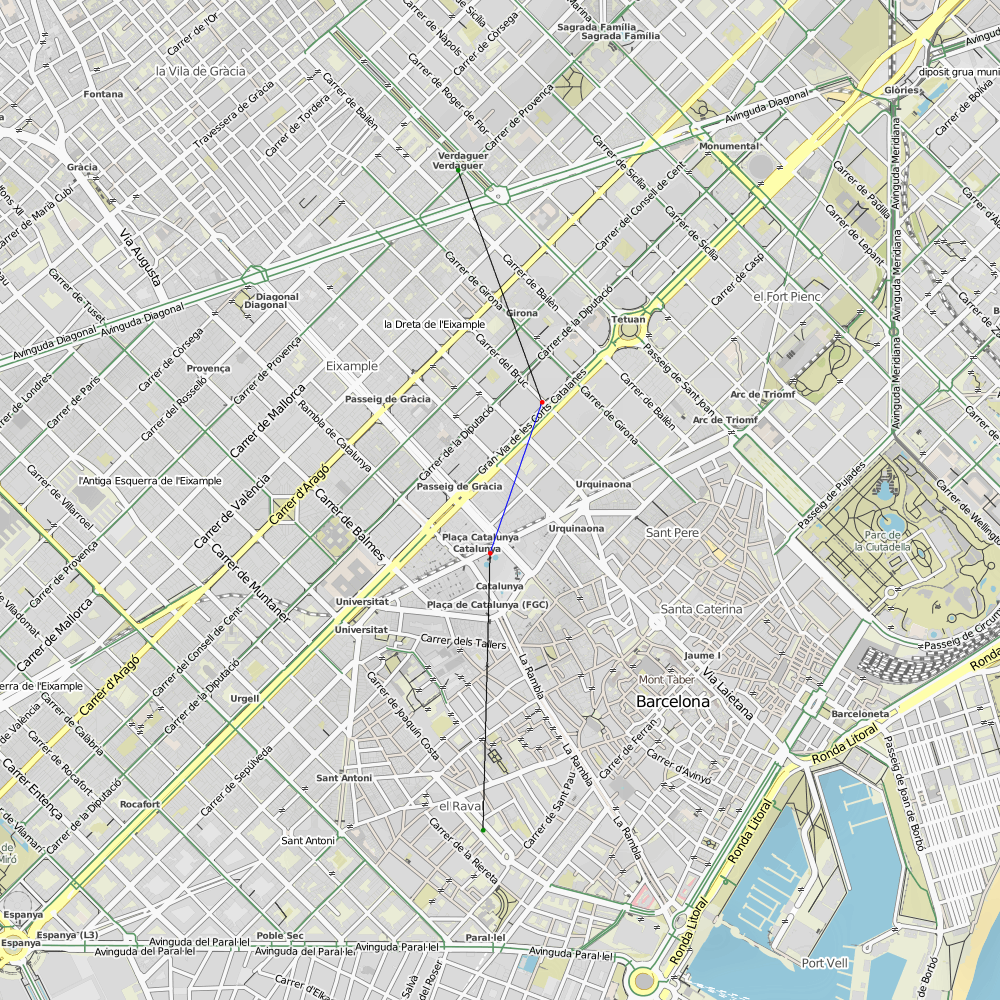
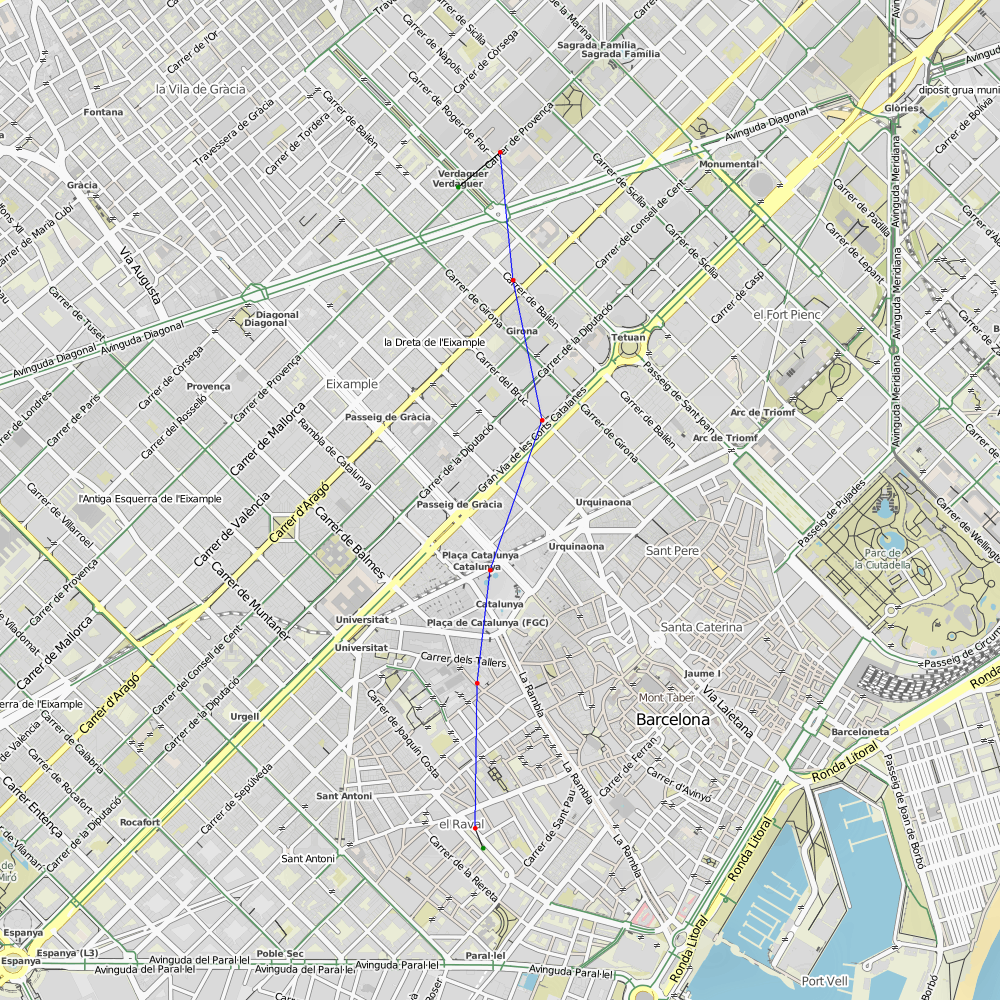
He fet el weight de distribute en metres (es perden els decimals, nose si saps com ho podríem sense fer-ho cutre)

diff --git a/data.py b/data.py
@@ -5,6 +5,9 @@ from geopy.geocoders import Nominatim
 import networkx as nx
 from staticmap import StaticMap, CircleMarker, Line
 
+
+import itertools as it
+
 '''
 Downloads the data from the internet and places the stations in a NetworkX Graph.
 Returns the graph, with the index and position in the node's own data and the
@@ -90,7 +93,6 @@ def grid (G, d, X):
     xmin, ymin, xmax, ymax = X
     width = haversine ((xmin, ymin), (xmax, ymin), unit='m')
     height = haversine ((xmin, ymin), (xmin, ymax), unit='m')
-    print ('width and height of bbox in meters: ', width, height)
 
     n_columns = int(width // d + 1)
     n_rows = int(height // d + 1)
@@ -155,7 +157,7 @@ and own a weight value that represents the time needed to go through.
 '''
 def get_edges(G, d):
     bbox_coords = bbox (G)
-    bike_v = 1000 # meters/hour
+    bike_v = 10000 # meters/hour (10 km/h)
     nodes_per_square, n_columns = grid (G, d, bbox_coords)
     for node in list(G.nodes(data=True)):
         neighbours (G, d, node, nodes_per_square, bbox_coords, n_columns, bike_v)
@@ -247,7 +249,7 @@ Returns the shortest path in time between two given addresses
 taking into account the corresponding velocities when walking or by bike.
 '''
 def route(G, d, info):
-    walk_v = 4000 # meters/hour
+    walk_v = 4000 # meters/hour (4 km/h)
     neighbours_od (G, d, ('o', G.nodes['o']), info[0], info[1], info[2], walk_v)
     neighbours_od (G, d, ('d', G.nodes['d']), info[0], info[1], info[2], walk_v)
 
@@ -275,7 +277,6 @@ def plot_route(addresses, G, d, info):
         H = nx.path_graph(path)
 
         for x in list(H.nodes()):
-            print (G.nodes[x]['pos'])
             H.nodes[x]['pos'] = G.nodes[x]['pos']
 
         # We remove them for further calculations
@@ -287,7 +288,10 @@ def plot_route(addresses, G, d, info):
 
 #____________________________________________________
 '''
-The function distribute indicates the cost of
+The function distribute indicates the cost of redistributing bikes among the graph so that
+each station satisfies the minimum number of bikes and docks required.
+If there's a solution, the movements needed and the kilometers they take are indicated; whereas
+if not, this message is displayed: "No solution could be found".
 '''
 def distribute(geomG, d, stations, requiredBikes, requiredDocks):
     url_status = 'https://api.bsmsa.eu/ext/api/bsm/gbfs/v2/en/station_status'
@@ -298,11 +302,8 @@ def distribute(geomG, d, stations, requiredBikes, requiredDocks):
     status = 'status'
     bikes = bikes[[nbikes, ndocks, status]] # We only select the interesting columns
 
-    TotalBikes = bikes[nbikes].sum()
-    TotalDocks = bikes[ndocks].sum()
-
     '''
-    Atributes to the graph
+    Attributes of the graph
     '''
     G = nx.DiGraph()
     G.add_node('TOP') # The green node
@@ -310,6 +311,8 @@ def distribute(geomG, d, stations, requiredBikes, requiredDocks):
 
     for st in bikes.itertuples():
         idx = st.Index
+        if st.status != 'IN_SERVICE':
+            continue
         stridx = str(idx)
         
         # The blue (s), black (g) and red (t) nodes of the graph
@@ -322,12 +325,13 @@ def distribute(geomG, d, stations, requiredBikes, requiredDocks):
         req_bikes = max(0, requiredBikes - b)
         req_docks = max(0, requiredDocks - d)
         
-        # Some of the following edges require attributes
+        # Connects each trio of nodes with the TOP one
         G.add_edge('TOP', s_idx)
         G.add_edge(t_idx, 'TOP')
         G.add_edge(s_idx, g_idx, capacity=max(b - requiredBikes, 0))
         G.add_edge(g_idx, t_idx, capacity=max(d - requiredDocks, 0))
         
+        # Defines demands: positive for bikes demand and negative for docks demand
         if req_bikes > 0:
             demand += req_bikes
             G.nodes[t_idx]['demand'] = req_bikes
@@ -336,22 +340,20 @@ def distribute(geomG, d, stations, requiredBikes, requiredDocks):
             demand -= req_docks
             G.nodes[s_idx]['demand'] = - req_docks
 
+    # Defines demand of the TOP node to compensate the graph one
     G.nodes['TOP']['demand'] = - demand
 
+    # Connects the graph G with the Geometric graph geomG
     for idx1 in G.nodes():
         if idx1[0] == 'g':
-            if bikes.at[int(idx1[1:]), 'status'] == "IN_SERVICE":
+            if bikes.at[int(idx1[1:]), 'status'] == "IN_SERVICE": # Considers only the stations that are in service
                 for idx2 in geomG[int(idx1[1:])]:
-                    coord1 = (stations.at[int(idx1[1:]), 'lat'], stations.at[int(idx1[1:]), 'lon'])
-                    coord2 = (stations.at[idx2, 'lat'], stations.at[idx2, 'lon'])
-                    dist = haversine(coord1, coord2, unit='m')
-
-                    if (dist <= d):
-                        # The edges must be bidirectional: g_idx1 <--> g_idx2
-                        G.add_edge(idx1, 'g'+str(idx2), weight=int(dist))
-                        G.add_edge('g'+str(idx2), idx1, weight=int(dist))
-
-    #print('Graph with', G.number_of_nodes(), "nodes and", G.number_of_edges(), "edges.")
+                    v_bike = 10000 # meters/hour (10 km/h)
+                    distance = geomG[int(idx1[1:])][idx2]['time']*v_bike # in meters
+                    
+                    # Now, the weight of the edges is the distance required (in m), since it is the attribute we want to minimize
+                    G.add_edge(idx1, 'g'+str(idx2), weight=int(distance))
+                    G.add_edge('g'+str(idx2), idx1, weight=int(distance))
 
     '''
     Min cost flow
@@ -380,16 +382,13 @@ def distribute(geomG, d, stations, requiredBikes, requiredDocks):
             for dst, b in flowDict[src].items():
                 if dst[0] == 'g' and b > 0:
                     idx_dst = int(dst[1:])
-                    print(idx_src, "->", idx_dst, " ", b, "bikes, distance", G.edges[src, dst]['weight'])
+                    print(idx_src, "->", idx_dst, " ", b, "bikes, distance", G.edges[src, dst]['weight'], "m")
                     bikes.at[idx_src, nbikes] -= b
                     bikes.at[idx_dst, nbikes] += b 
                     bikes.at[idx_src, ndocks] += b 
                     bikes.at[idx_dst, ndocks] -= b
 
-    TotalBikes = bikes[nbikes].sum()
-    TotalDocks = bikes[ndocks].sum()
-    #print("Total number of bikes:", TotalBikes)
-    #print("Total number of docks:", TotalDocks)
+    print("The following stations aren't in service so they don't have to satisfy the requirements:")
     print(bikes.loc[(bikes[nbikes] < requiredBikes) | (bikes[ndocks] < requiredDocks)])
 
 

diff --git a/tests.py b/tests.py
@@ -1,6 +1,6 @@
 from data import *
 
-d = 1000
+d = 600
 G, stations, info = build_graph(d)
 
 #No creus que podríem evitar fer la bbox cada cop?
@@ -10,11 +10,12 @@ G, stations, info = build_graph(d)
 image = plot_graph(G)
 image.save('map.png')
 
-distribute(G, d, stations, 1, 0)
+distribute(G, d, stations, 3, 2)
 
-print(number_of_nodes(G))
-print(number_of_edges(G))
+#print(number_of_nodes(G))
+#print(number_of_edges(G))
 #print(number_of_connected_components(G))
+
 image2 = plot_route('Rambla del Raval 13, Provença 501', G, d, info)
 image2.save('route.png')
 
